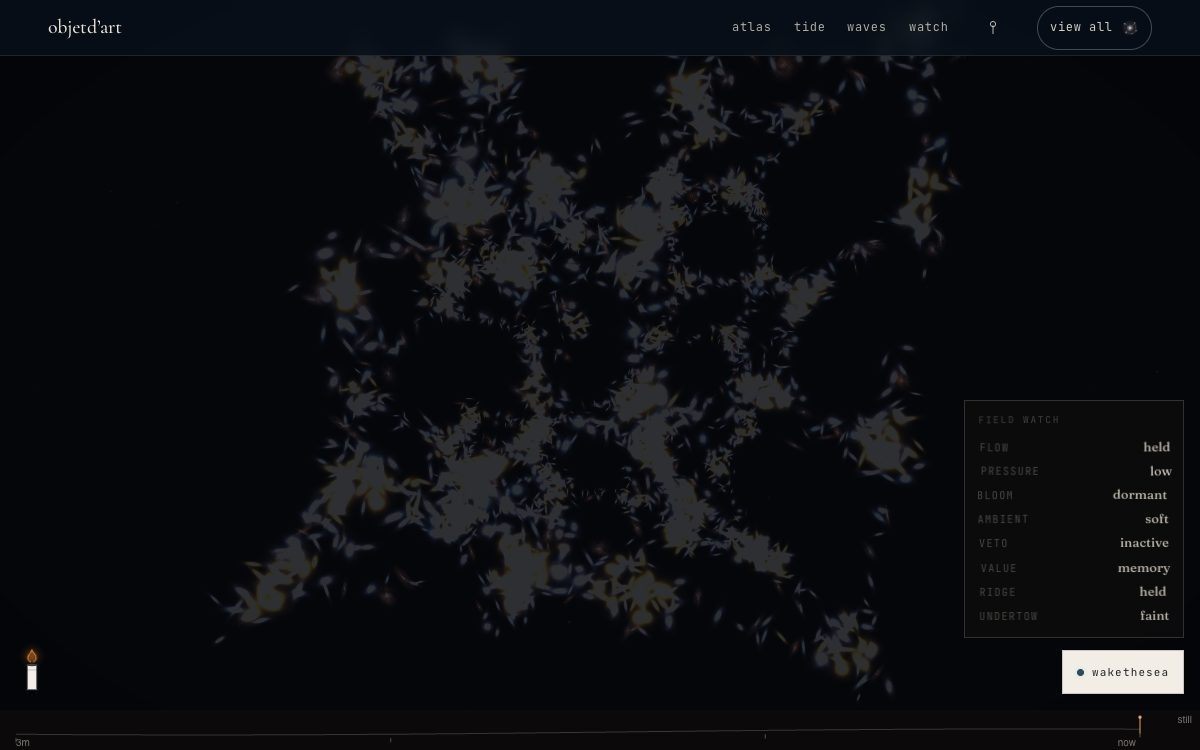
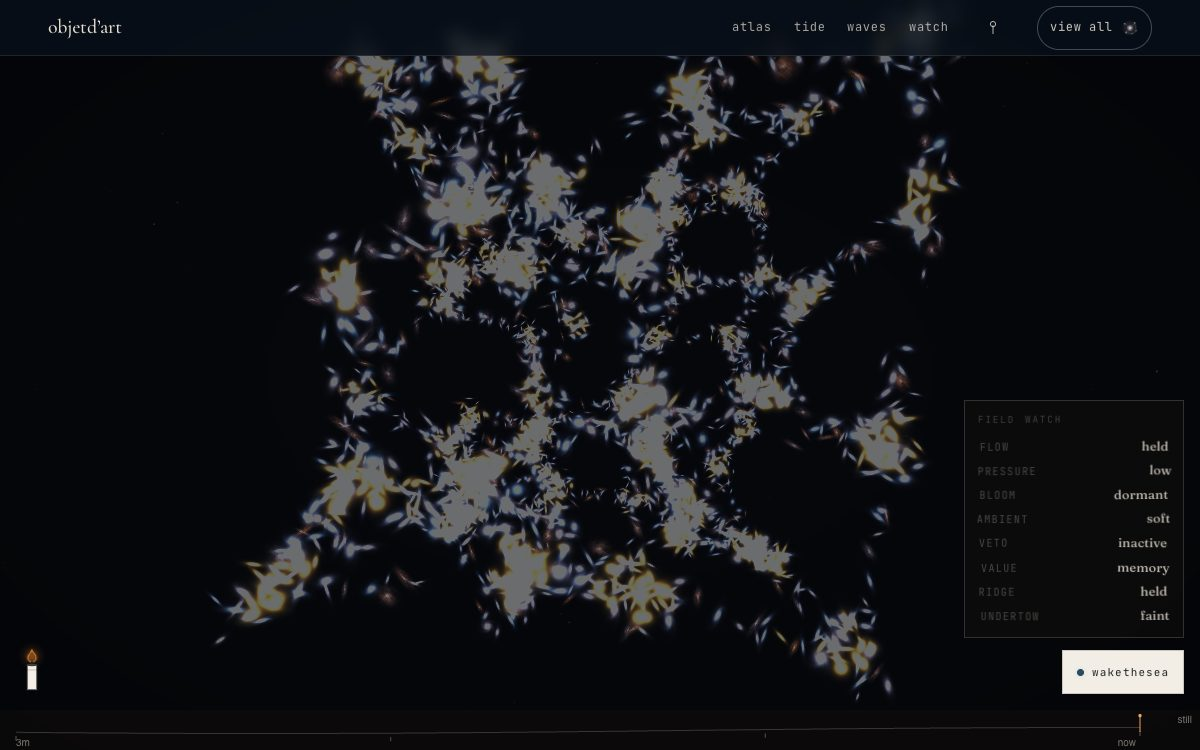
fix(space): the web keeps its filaments on a phone
At 390px the galaxies merged into grey continents with black holes
between them — the voids read, but the filaments and the individual
galaxies were gone, which is most of what makes a web a web.

Two compounding causes, both in the galaxy vertex shader:

A tall frame stands the camera further back so the whole web stays in
frame. The sprite radius was scaled by that same stand-off, so a galaxy
kept its angular size while the camera retreated — which means more of
the web crowded into the same pixels, and the sprites overlapped into a
sheet. Letting zc alone set the size is the honest perspective and is
what keeps a void looking like a void. The radius cap comes down from
1.6 to 0.42 while we are here: 1.6 is most of clip space, and a near
sprite at that size is a white wall rather than a galaxy.

And exposure was multiplied by the raw stand-off too, so the same tall
frame that crowded the sprites also brightened each one. Bounded to
0.9..1.12 — the distance falloff still gets its compensation, but it
can no longer wash the frame out.

Verified by shooting /space at 390x844 and at 1200x750 against a
production build, before and after: the filaments, the knots and the
warm/cool colour all return on the phone, and the desktop frame is
unchanged but for the near sprites no longer blooming. Guide shot
re-taken. npm test and npm run build green.

diff --git a/src/components/DeepSpaceWeb.tsx b/src/components/DeepSpaceWeb.tsx
@@ -220,7 +220,13 @@ void main() {
   vec2 sp = vec2(dot(rel, u_right), dot(rel, u_up)) * u_focal / zc;
   float extent = (0.010 + 0.022 * a_meta.y + 0.032 * grown)
                * (1.0 + 3.4 * a_dyn.y + 1.7 * a_dyn.x);
-  float r = min(extent * (0.5 + 0.5 * u_fit) / zc, 1.6);
+  // NOT scaled by u_fit, and capped well inside clip space. A tall frame
+  // stands the camera further back; a galaxy that keeps its angular size
+  // while the camera retreats means more of the web crowded into the same
+  // pixels, and at 390px the filaments merged into grey continents. Letting
+  // zc alone set the size is both the honest perspective and what keeps a
+  // void looking like a void on a phone.
+  float r = min(extent / zc, 0.42);
   vec2 off = a_corner * r;
   gl_Position = vec4((sp.x + off.x) / u_aspect, sp.y + off.y, 0.0, 1.0);
   v_uv = a_corner;
@@ -229,7 +235,10 @@ void main() {
   v_dyn = a_dyn;
   // near things are brighter, but never blinding; the breath rides on top
   v_bright = (1.0 + 4.4 * grown) / (0.75 + zc * 0.9)
-           * (0.82 + 0.18 * u_breath) * (1.0 - 0.88 * u_night) * (1.0 - 0.85 * u_veil) * u_fit
+           * (0.82 + 0.18 * u_breath) * (1.0 - 0.88 * u_night) * (1.0 - 0.85 * u_veil)
+           // compensate for the further stand-off on a tall frame, but BOUND
+           // it: scaling exposure by the raw fit washed 390px out to a sheet
+           * clamp(u_fit, 0.9, 1.12)
            * (1.0 + 2.4 * a_dyn.x);
 }
 `;
